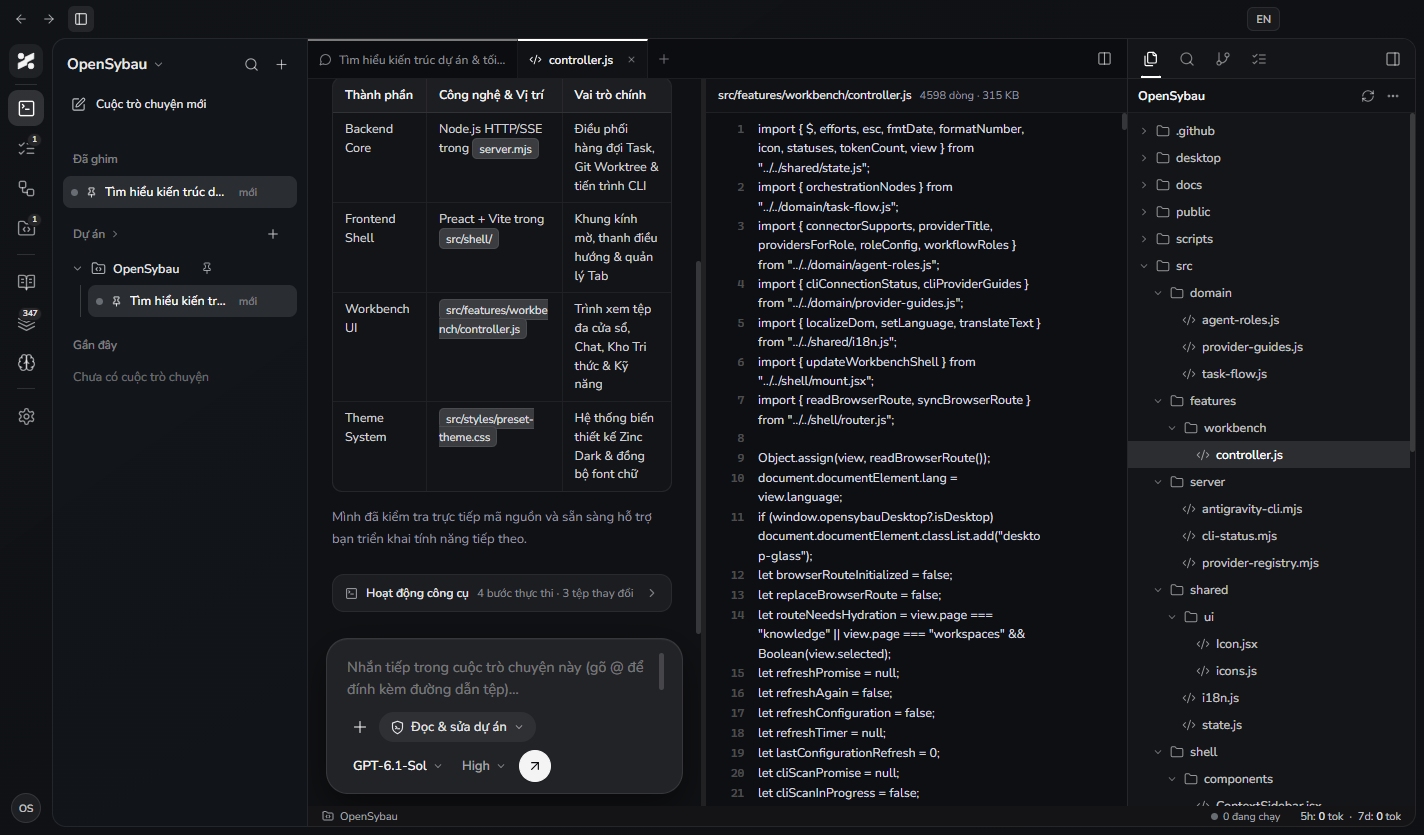
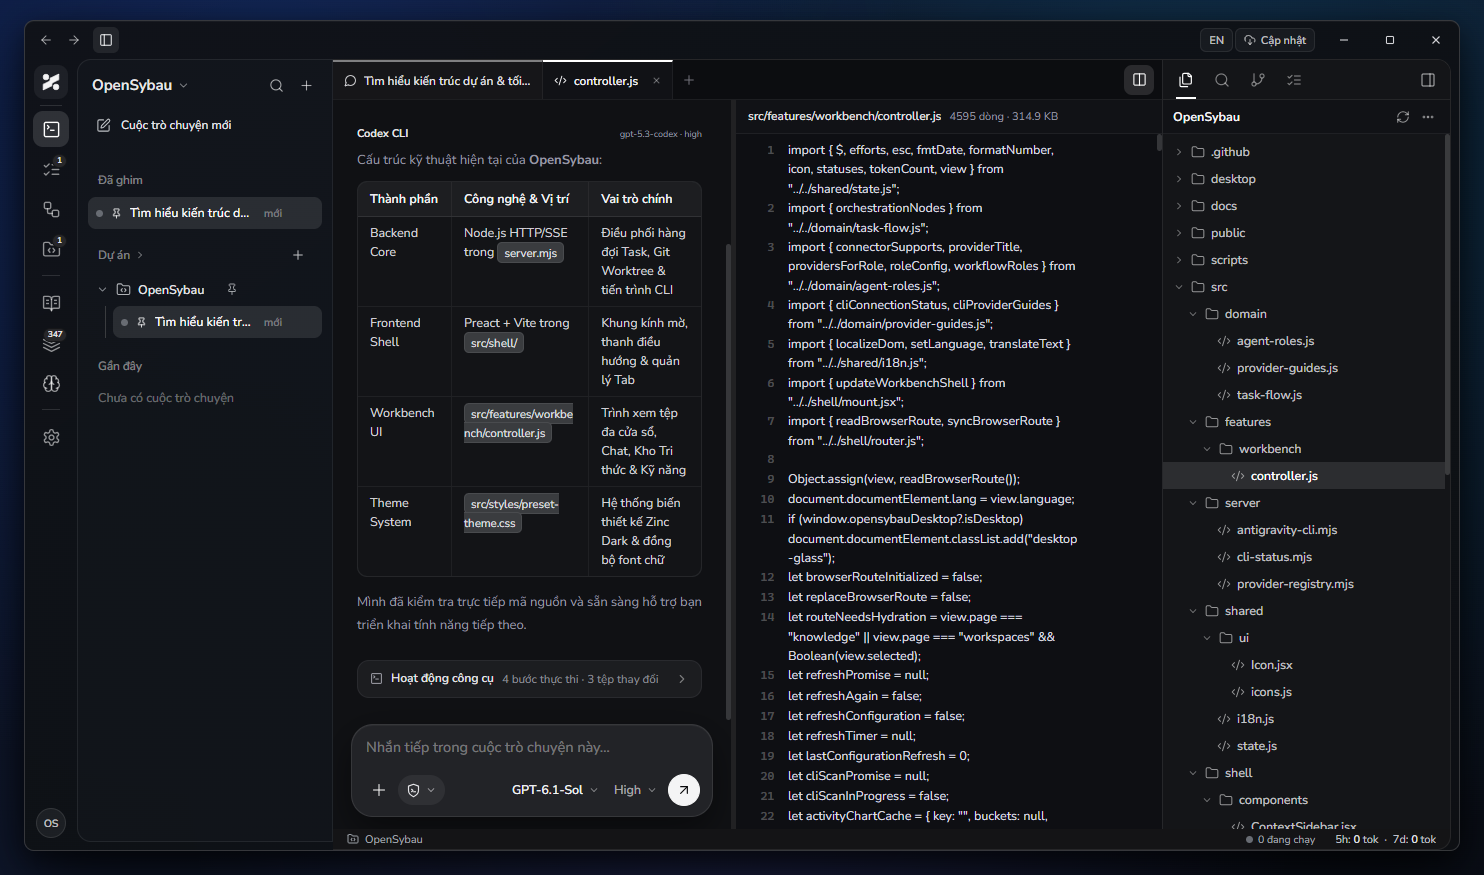
style(ui): optimize narrow chat composer, full-width skills stage, and Windows 11 desktop screenshots

diff --git a/src/features/workbench/controller.js b/src/features/workbench/controller.js
@@ -1759,12 +1759,8 @@ function skillPage() {
     const rawContent = activeDetail?.content || "";
     const strippedBody = rawContent.replace(/^---\r?\n[\s\S]*?\r?\n---\r?\n?/, "").trim();
     centerBodyHtml = `<div class="kb-doc-scroll">
-      <div class="kb-doc-container">
-        <div class="kb-doc-context-bar">
-          <span class="kb-tag-chip">${esc((activeSkill.sources || [activeSkill.source]).join(" · "))}</span>
-          <span class="kb-tag-chip">${activeSkill.editable ? "Skill cá nhân · Có thể sửa" : "Plugin / CLI · Chỉ đọc"}</span>
-        </div>
-        <p class="kb-skill-lead">${esc(activeSkill.description || "")}</p>
+      <div class="kb-doc-container is-full-stage">
+        ${activeSkill.description ? `<div class="kb-skill-summary-banner">${icon("notebook-tabs", 14)}<span>${esc(activeSkill.description)}</span></div>` : ""}
         ${rawContent
           ? `<article class="markdown-preview kb-markdown-doc">${renderMarkdown(strippedBody || rawContent)}</article>`
           : `<p class="neural-muted">Đang tải nội dung SKILL.md…</p>`}
@@ -1785,6 +1781,7 @@ function skillPage() {
         <div class="kb-active-doc-info">
           <strong>${esc(activeSkill ? activeSkill.name : "Thư viện Kỹ năng")}</strong>
           <small>${activeSkill ? esc((activeSkill.sources || [activeSkill.source]).join(" · ")) : `${allSkills.length} skill cục bộ`}</small>
+          ${activeSkill ? `<span class="kb-tag-chip is-inline-badge">${activeSkill.editable ? "Cá nhân · Có thể sửa" : "Plugin / CLI · Chỉ đọc"}</span>` : ""}
         </div>
       </div>
       <div class="kb-topbar-right">
@@ -2435,7 +2432,7 @@ function chatPage() {
         <form class="home-composer" data-modal data-form="home-task">
           ${composerAttachmentsMarkup("home")}
           <div class="composer-input-wrap">
-            <textarea name="prompt" data-home-prompt maxlength="50000" rows="1" placeholder="${isArena ? `Làm bất cứ điều gì trên ${arenaSlots.length} nhánh song song (gõ @ để đính kèm tệp)…` : "Làm bất cứ điều gì… (gõ @ để đính kèm tệp)"}">${esc(view.chatDraft)}</textarea>
+            <textarea name="prompt" data-home-prompt maxlength="50000" rows="1" placeholder="${isArena ? `Làm bất cứ điều gì trên ${arenaSlots.length} nhánh song song…` : "Làm bất cứ điều gì…"}">${esc(view.chatDraft)}</textarea>
             <div class="mention-popover" data-mention-popover hidden></div>
           </div>
           <footer class="home-composer-controls">
@@ -2723,7 +2720,7 @@ function taskConversationPage() {
             ${busy && !messages.some((message) => message.status === "running") ? `<div class="chat-empty-note">${esc(taskProgress(task))}…</div>` : ""}
           </div>
         </div>
-        <form class="chat-composer" data-modal data-form="task-chat" data-id="${task.id}">${composerAttachmentsMarkup(`task:${task.id}`)}<div class="composer-input-wrap"><textarea name="message" class="chat-input" maxlength="50000" rows="1" placeholder="${queuedTurns.length || hasActiveChatMessage ? (view.language === "en" ? "Send another message; it will wait in the queue…" : "Gửi tin nhắn tiếp theo; agent sẽ xử lý theo hàng đợi…") : "Nhắn tiếp trong cuộc trò chuyện này (gõ @ để đính kèm đường dẫn tệp)…"}">${esc(view.chatDraft)}</textarea><div class="mention-popover" data-mention-popover hidden></div></div><input type="hidden" name="provider" value="${esc(provider)}"><input type="hidden" name="model" value="${esc(model?.id || "")}"><input type="hidden" name="effort" value="${esc(effort)}"><footer class="chat-composer-controls"><div class="composer-add-wrap">${composerAddMenu("message", task.id)}${composerPermissionMenuMarkup(task.permissionPreset || "workspace-write", "task", task.id)}</div><div class="home-composer-actions"><div class="codex-inline-model-bar"><details class="codex-pop-menu is-up is-right" data-pop-id="task-model"><summary class="codex-inline-trigger is-model" title="Chọn Agent & Model"><span>${esc(activeTaskModelLabel)}</span>${icon("chevron-down", 12)}</summary><div class="codex-pop-card is-model-list"><div class="codex-pop-head">Agent & Model</div><div class="codex-pop-scroll">${taskAgentItems.join("")}</div></div></details><details class="codex-pop-menu is-up is-right" data-pop-id="task-effort"><summary class="codex-inline-trigger is-effort" title="Mức suy luận"><span>${esc(effortDisplay[effort] || effort || "Medium")}</span>${icon("chevron-down", 12)}</summary><div class="codex-pop-card is-effort-list"><div class="codex-pop-head">Mức suy luận</div><div class="codex-pop-scroll">${activeEfforts.map((ef) => `<button type="button" class="codex-pop-item ${ef === effort ? "is-selected" : ""}" data-action="pick-task-chat-effort" data-effort="${esc(ef)}"><span class="codex-pop-item-main"><span>${esc(effortDisplay[ef] || ef)}</span></span>${ef === effort ? icon("check", 13) : ""}</button>`).join("")}</div></div></details></div><button class="button primary chat-send-button" type="submit" aria-label="${view.language === "en" ? "Send message to queue" : "Gửi tin nhắn vào hàng đợi"}" title="${view.language === "en" ? "Send message to queue" : "Gửi tin nhắn vào hàng đợi"}" ${canSend ? "" : "disabled"}>${icon("arrow-up-right", 16)}</button></div></footer></form>
+        <form class="chat-composer" data-modal data-form="task-chat" data-id="${task.id}">${composerAttachmentsMarkup(`task:${task.id}`)}<div class="composer-input-wrap"><textarea name="message" class="chat-input" maxlength="50000" rows="1" placeholder="${queuedTurns.length || hasActiveChatMessage ? (view.language === "en" ? "Send another message; it will wait in the queue…" : "Gửi tin nhắn tiếp theo; agent sẽ xử lý theo hàng đợi…") : "Nhắn tiếp trong cuộc trò chuyện này…"}">${esc(view.chatDraft)}</textarea><div class="mention-popover" data-mention-popover hidden></div></div><input type="hidden" name="provider" value="${esc(provider)}"><input type="hidden" name="model" value="${esc(model?.id || "")}"><input type="hidden" name="effort" value="${esc(effort)}"><footer class="chat-composer-controls"><div class="composer-add-wrap">${composerAddMenu("message", task.id)}${composerPermissionMenuMarkup(task.permissionPreset || "workspace-write", "task", task.id)}</div><div class="home-composer-actions"><div class="codex-inline-model-bar"><details class="codex-pop-menu is-up is-right" data-pop-id="task-model"><summary class="codex-inline-trigger is-model" title="Chọn Agent & Model"><span>${esc(activeTaskModelLabel)}</span>${icon("chevron-down", 12)}</summary><div class="codex-pop-card is-model-list"><div class="codex-pop-head">Agent & Model</div><div class="codex-pop-scroll">${taskAgentItems.join("")}</div></div></details><details class="codex-pop-menu is-up is-right" data-pop-id="task-effort"><summary class="codex-inline-trigger is-effort" title="Mức suy luận"><span>${esc(effortDisplay[effort] || effort || "Medium")}</span>${icon("chevron-down", 12)}</summary><div class="codex-pop-card is-effort-list"><div class="codex-pop-head">Mức suy luận</div><div class="codex-pop-scroll">${activeEfforts.map((ef) => `<button type="button" class="codex-pop-item ${ef === effort ? "is-selected" : ""}" data-action="pick-task-chat-effort" data-effort="${esc(ef)}"><span class="codex-pop-item-main"><span>${esc(effortDisplay[ef] || ef)}</span></span>${ef === effort ? icon("check", 13) : ""}</button>`).join("")}</div></div></details></div><button class="button primary chat-send-button" type="submit" aria-label="${view.language === "en" ? "Send message to queue" : "Gửi tin nhắn vào hàng đợi"}" title="${view.language === "en" ? "Send message to queue" : "Gửi tin nhắn vào hàng đợi"}" ${canSend ? "" : "disabled"}>${icon("arrow-up-right", 16)}</button></div></footer></form>
       </section>
   </section>`;
 }

diff --git a/src/styles/preset-theme.css b/src/styles/preset-theme.css
@@ -6525,3 +6525,139 @@ textarea::placeholder,
   border-radius: 1px;
   pointer-events: none;
 }
+
+/* 5. Compact Single-Row Chat Composer in Split/Narrow View & No Empty Scrollbar */
+.wb-page-content .command-home-page {
+  min-height: 0 !important;
+  height: 100% !important;
+}
+
+.wb-page-content .home-composer,
+.wb-page-content .task-conversation-page .chat-composer {
+  container-type: inline-size;
+  padding: 10px 12px 10px !important;
+  gap: 6px !important;
+}
+
+.wb-page-content .home-composer textarea,
+.wb-page-content .chat-composer textarea,
+.composer-input-wrap > textarea {
+  min-height: 28px !important;
+  padding: 2px 2px !important;
+  overflow-x: hidden !important;
+}
+
+.wb-page-content .home-composer textarea:placeholder-shown,
+.wb-page-content .chat-composer textarea:placeholder-shown,
+.composer-input-wrap > textarea:placeholder-shown {
+  overflow-y: hidden !important;
+}
+
+.wb-page-content .home-composer-controls,
+.wb-page-content .chat-composer-controls {
+  display: flex !important;
+  flex-wrap: nowrap !important;
+  align-items: center !important;
+  justify-content: space-between !important;
+  gap: 6px !important;
+  min-width: 0 !important;
+}
+
+.composer-add-wrap {
+  display: inline-flex !important;
+  flex-wrap: nowrap !important;
+  align-items: center !important;
+  gap: 4px !important;
+  min-width: 0 !important;
+  flex: 0 1 auto !important;
+}
+
+.home-composer-actions {
+  display: inline-flex !important;
+  flex-wrap: nowrap !important;
+  align-items: center !important;
+  gap: 4px !important;
+  margin-left: auto !important;
+  min-width: 0 !important;
+  flex: 0 1 auto !important;
+}
+
+.codex-inline-model-bar {
+  display: inline-flex !important;
+  flex-wrap: nowrap !important;
+  align-items: center !important;
+  gap: 2px !important;
+  min-width: 0 !important;
+}
+
+@container (max-width: 480px) {
+  .codex-perm-pill {
+    padding: 0 8px !important;
+    gap: 4px !important;
+  }
+  .codex-perm-pill > span {
+    display: none !important;
+  }
+  .codex-inline-trigger {
+    padding: 0 6px !important;
+    font-size: 12.5px !important;
+  }
+  .codex-inline-trigger.is-model > span {
+    max-width: 120px !important;
+    overflow: hidden !important;
+    text-overflow: ellipsis !important;
+    white-space: nowrap !important;
+  }
+}
+
+/* 6. Full-Stage Space Utilization for Skills & Knowledge Vault */
+.kb-doc-scroll {
+  padding: 16px 22px 28px !important;
+}
+
+.kb-doc-container,
+.kb-doc-container.is-full-stage {
+  width: 100% !important;
+  max-width: none !important;
+  margin: 0 !important;
+  gap: 12px !important;
+}
+
+.kb-active-doc-info {
+  display: inline-flex !important;
+  align-items: center !important;
+  gap: 8px !important;
+  flex-wrap: nowrap !important;
+  min-width: 0 !important;
+}
+
+.kb-tag-chip.is-inline-badge {
+  height: 20px !important;
+  padding: 0 7px !important;
+  font-size: 10.5px !important;
+  border-radius: 5px !important;
+  background: rgba(255, 255, 255, 0.05) !important;
+  border-color: rgba(255, 255, 255, 0.09) !important;
+  color: #a1a1aa !important;
+  cursor: default !important;
+  flex-shrink: 0 !important;
+}
+
+.kb-skill-summary-banner {
+  display: flex;
+  align-items: center;
+  gap: 10px;
+  padding: 10px 14px;
+  border-radius: 10px;
+  border: 1px solid rgba(255, 255, 255, 0.07);
+  background: rgba(255, 255, 255, 0.025);
+  color: #d4d4d8;
+  font-size: 13px;
+  line-height: 1.5;
+}
+
+.kb-skill-summary-banner svg {
+  color: #a1a1aa;
+  flex-shrink: 0;
+}
+
